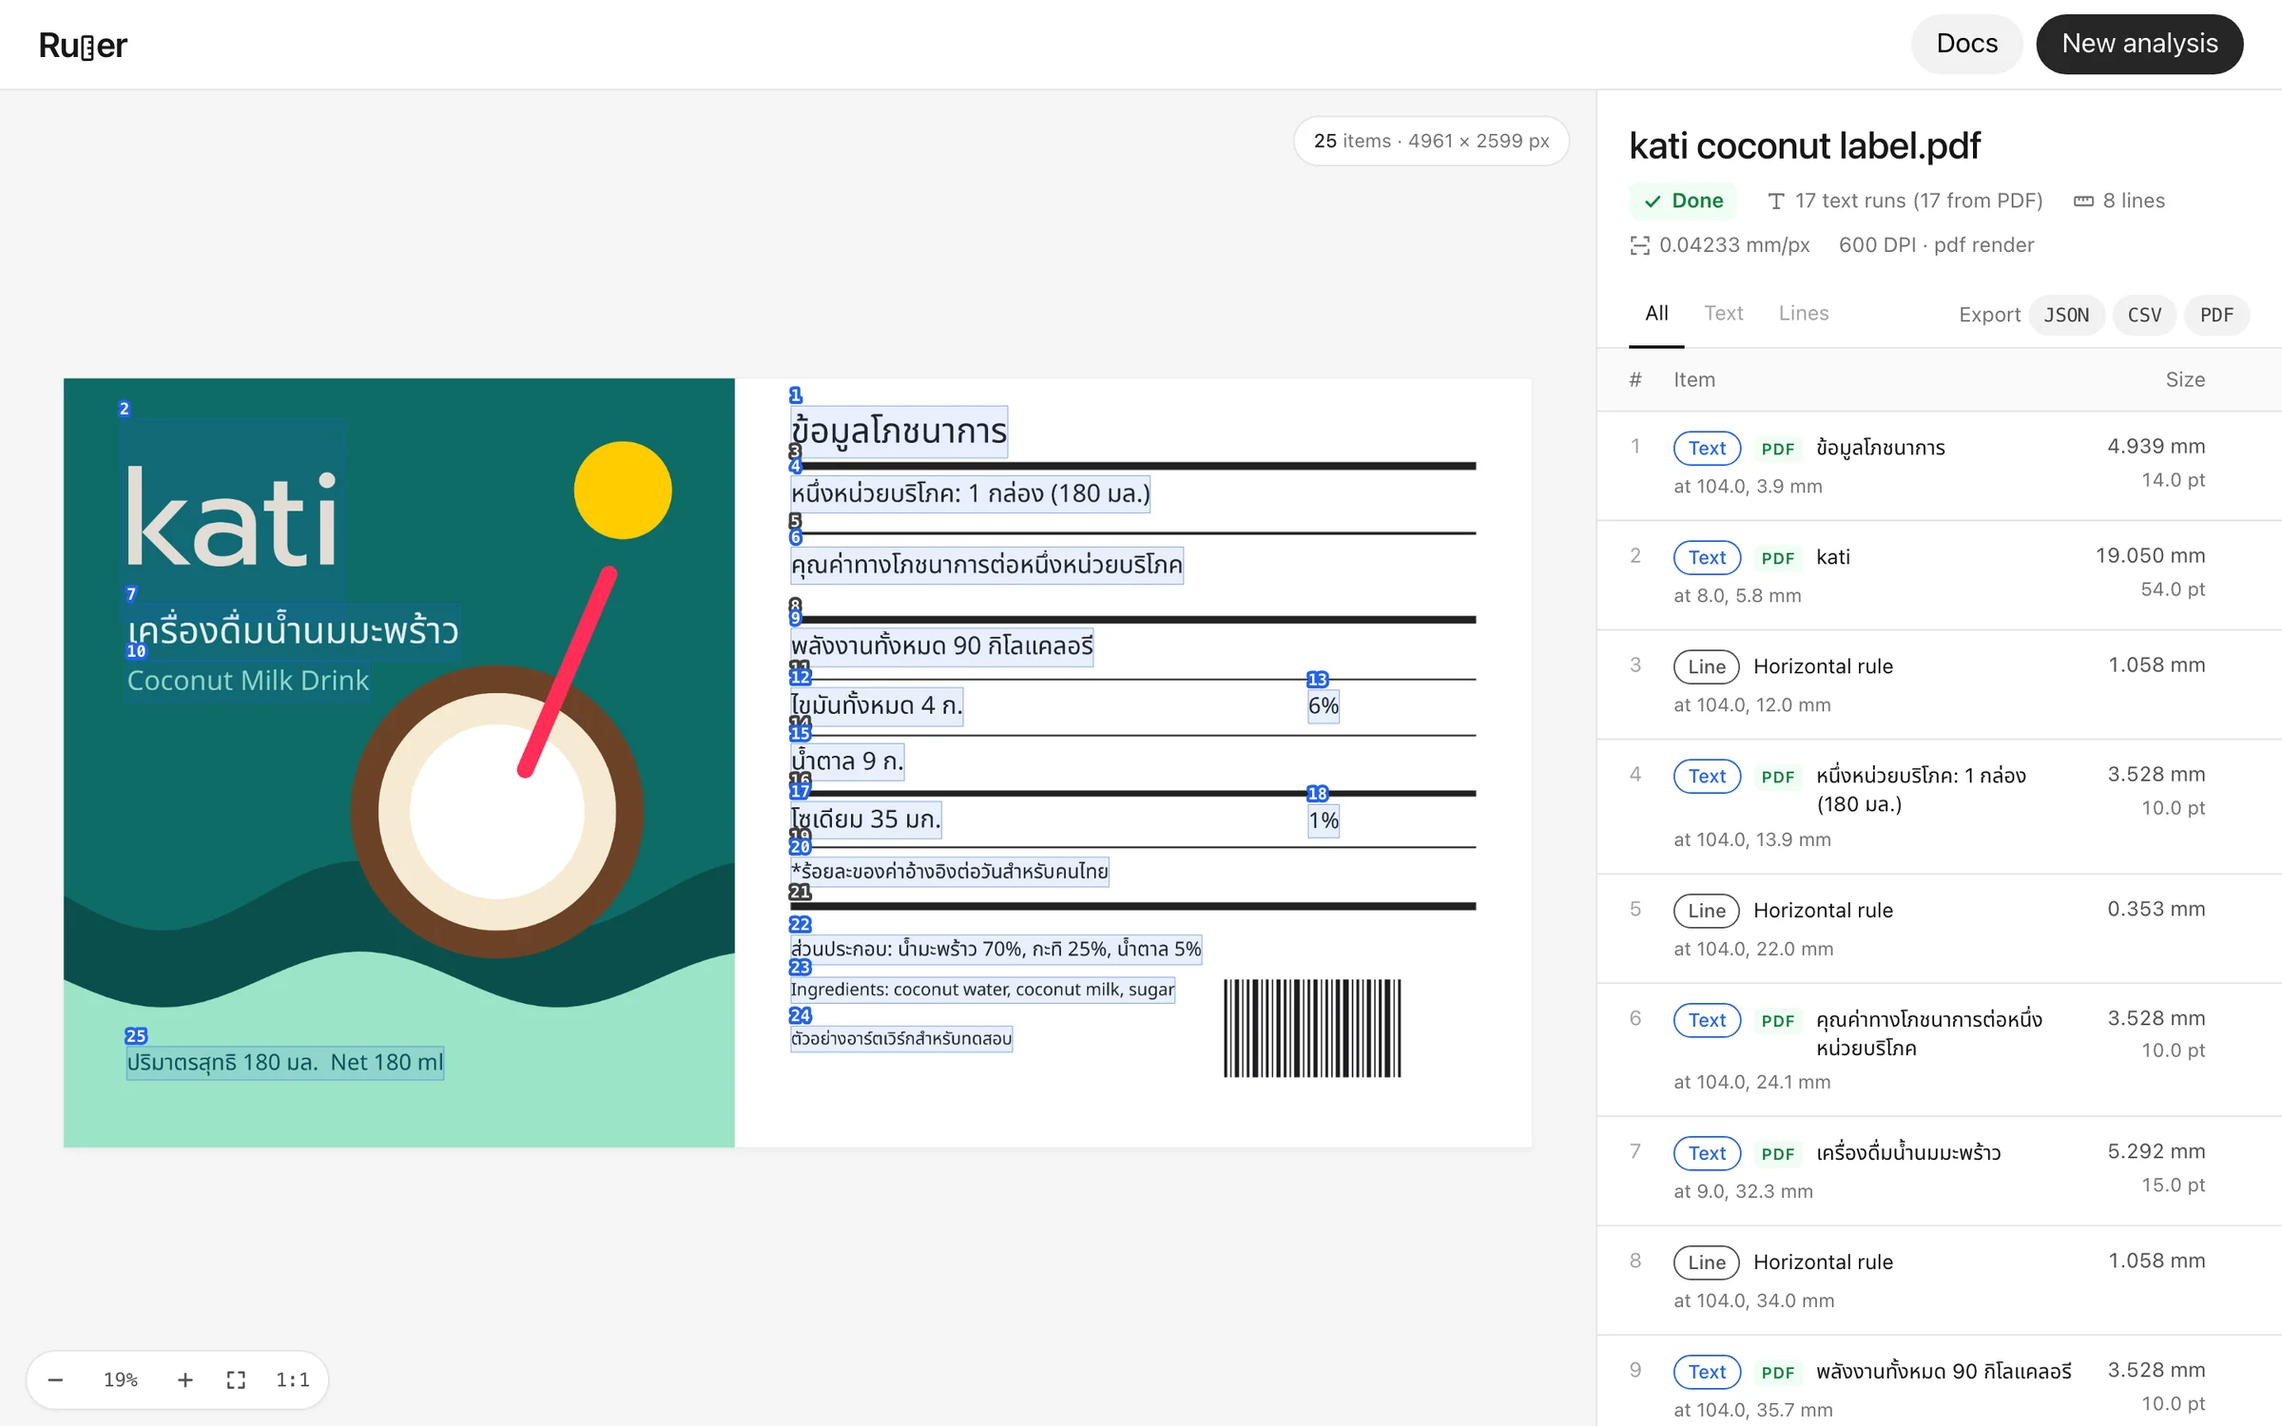
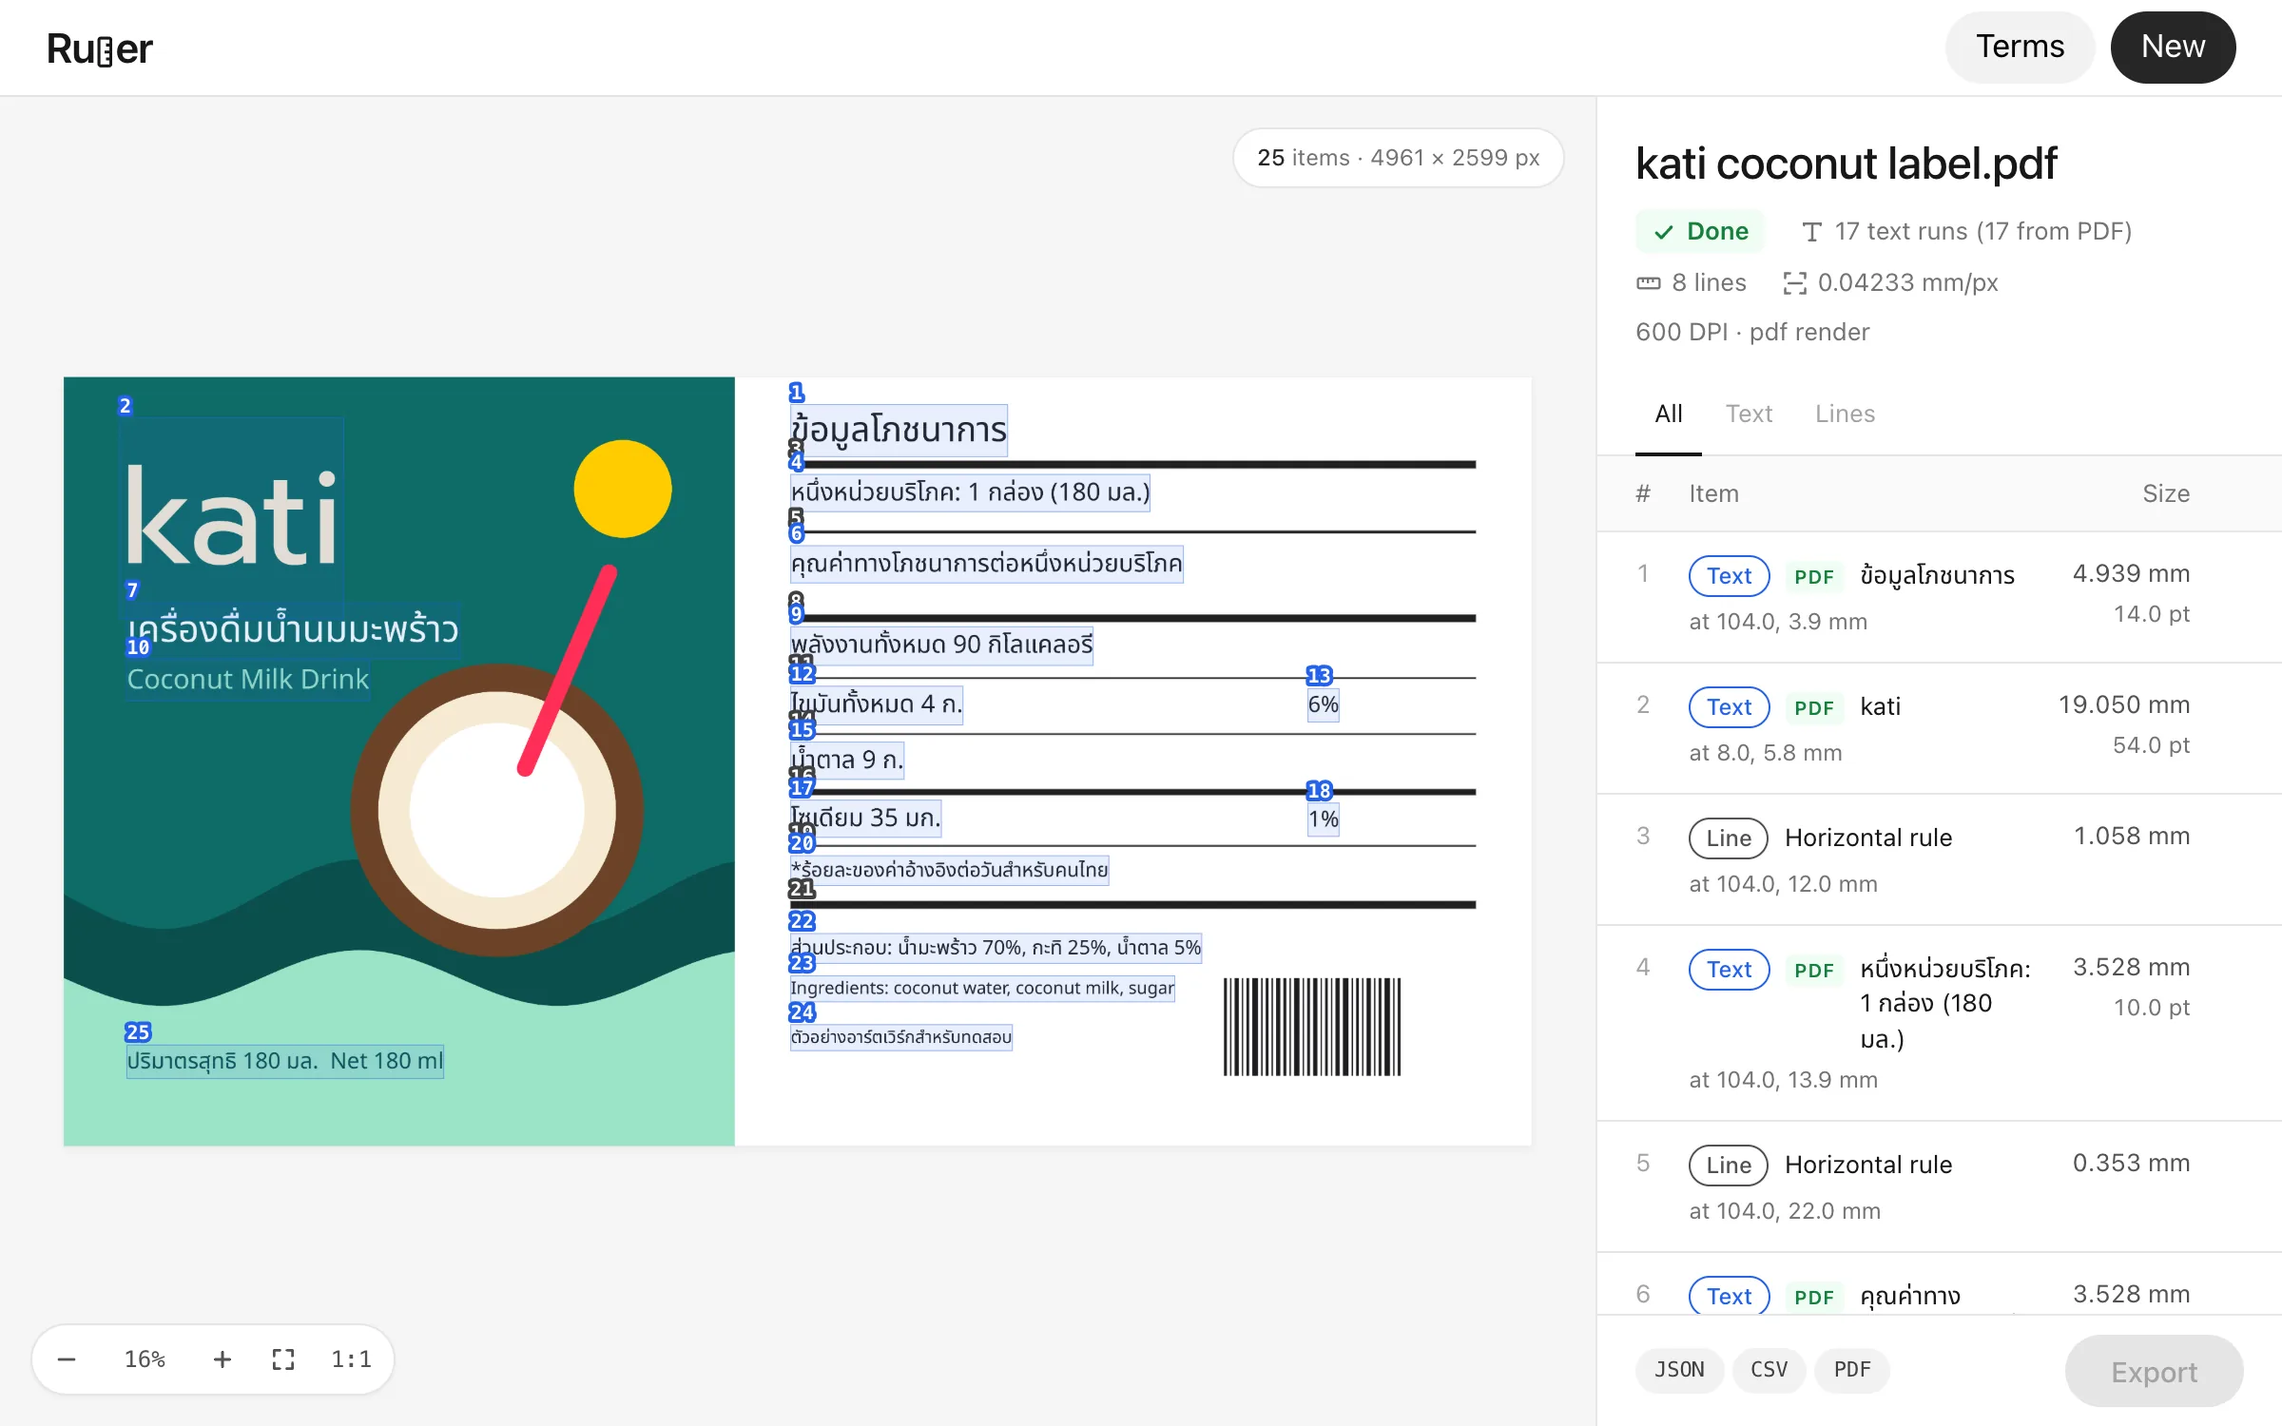
Update the Ruler case study to the current version
New screenshots from the mm workspace UI, the correct stack (FastAPI,
PaddleOCR, OpenCV, Alpine.js), and three new features: the millimetre
workspace, re-read voting and known terms. Thai strings updated to match.

diff --git a/ocr-qa.html b/ocr-qa.html
@@ -621,7 +621,7 @@ a:focus-visible, button:focus-visible { outline: 2px solid var(--accent); outlin
           <div class="stat"><b>8</b><span data-i18n="glance.rules">rules measured</span></div>
           <div class="stat"><b>0.042</b><span data-i18n="glance.scale">mm per pixel</span></div>
         </div>
-        <figure><img src="Images/works/ocr/summary.webp" alt="Ruler's results panel: the job status, counts of text runs and lines, the scale, and the first measured items." width="864" height="888" loading="lazy"></figure>
+        <figure><img src="Images/works/ocr/summary.webp" alt="Ruler's results panel: the job status, counts of text runs and lines, the scale, and the first measured items." width="720" height="888" loading="lazy"></figure>
       </aside>
     </div>
   </section>
@@ -637,11 +637,11 @@ a:focus-visible, button:focus-visible { outline: 2px solid var(--accent); outlin
         </section>
         <section>
           <h3 data-i18n="story.work.head">Work I did</h3>
-          <p data-i18n="story.work.body">I shaped the product and built it: framing the problem, setting what the system has to catch, and designing how a reviewer works through what it finds. I then implemented it as a Next.js web app that keeps the artwork and its checks in one workspace, in Thai and English.</p>
+          <p data-i18n="story.work.body">I shaped the product and built it: framing the problem, setting what the system has to catch, and designing how a reviewer works through what it finds. I then built it as a web app — a FastAPI service with PaddleOCR for the words and OpenCV for the rules, and an Alpine.js workspace that shows the artwork at true size beside everything found on it, in Thai and English.</p>
         </section>
       </div>
       <div class="story-shot reveal">
-        <img src="Images/works/ocr/upload.webp" alt="Ruler's start screen: drop an artwork (JPG, PNG or PDF up to 50 MB), with an optional physical width for images that have no reliable DPI." width="1140" height="780" loading="lazy">
+        <img src="Images/works/ocr/upload.webp" alt="Ruler's start screen: a millimetre workspace with rulers, a grid and Card-to-A0 page outlines, and a card to drop an artwork (JPG, PNG or PDF up to 50 MB) with an optional physical width." width="1680" height="1398" loading="lazy">
       </div>
     </div>
   </section>
@@ -684,7 +684,7 @@ a:focus-visible, button:focus-visible { outline: 2px solid var(--accent); outlin
         <div class="feature reveal">
           <span class="feature-mark"><svg viewBox="0 0 24 24" fill="none" stroke="currentColor" stroke-width="1.8" stroke-linecap="round" aria-hidden="true"><path d="M4 7V5h16v2"/><path d="M12 5v14"/><path d="M9 19h6"/></svg></span>
           <h3 data-i18n="f1.head">Font size, measured</h3>
-          <p data-i18n="f1.body">Each text run is sized from its glyphs — Thai by body height, Latin by cap height — and given in millimetres and points.</p>
+          <p data-i18n="f1.body">A PDF's own text layer is read first, for exact characters and sizes; OCR fills in outlined text. Everything else is sized from its glyphs — Thai by body height, Latin by cap height — in millimetres and points.</p>
         </div>
         <div class="feature reveal">
           <span class="feature-mark"><svg viewBox="0 0 24 24" fill="none" stroke="currentColor" stroke-width="1.8" stroke-linecap="round" aria-hidden="true"><path d="M3 8h18"/><path d="M3 13h18" stroke-width="3"/><path d="M3 18h18" stroke-width="1"/></svg></span>
@@ -696,14 +696,29 @@ a:focus-visible, button:focus-visible { outline: 2px solid var(--accent); outlin
           <h3 data-i18n="f3.head">A record that ships</h3>
           <p data-i18n="f3.body">The list, the overlay and every export come from one set of findings — JSON, CSV, or a PDF report with the marked-up artwork.</p>
         </div>
+        <div class="feature reveal">
+          <span class="feature-mark"><svg viewBox="0 0 24 24" fill="none" stroke="currentColor" stroke-width="1.8" stroke-linecap="round" stroke-linejoin="round" aria-hidden="true"><path d="M3 21V3h4v18z"/><path d="M7 7h2M7 11h3M7 15h2"/><rect x="12" y="8" width="9" height="12" rx="1"/></svg></span>
+          <h3 data-i18n="f4.head">A workspace in millimetres</h3>
+          <p data-i18n="f4.body">Rulers, a grid and Card-to-A0 outlines frame the artwork at its true size, so a label can be judged against the page it will print on.</p>
+        </div>
+        <div class="feature reveal">
+          <span class="feature-mark"><svg viewBox="0 0 24 24" fill="none" stroke="currentColor" stroke-width="1.8" stroke-linecap="round" stroke-linejoin="round" aria-hidden="true"><path d="M4 12a8 8 0 0 1 13.7-5.6L20 9"/><path d="M20 4v5h-5"/><path d="M20 12a8 8 0 0 1-13.7 5.6L4 15"/><path d="M4 20v-5h5"/></svg></span>
+          <h3 data-i18n="f5.head">Read twice, kept only when sure</h3>
+          <p data-i18n="f5.body">Large OCR lines are read again at several sizes, and a new reading replaces the first only when the rereads agree — so one shaky reading never reaches the list.</p>
+        </div>
+        <div class="feature reveal">
+          <span class="feature-mark"><svg viewBox="0 0 24 24" fill="none" stroke="currentColor" stroke-width="1.8" stroke-linecap="round" stroke-linejoin="round" aria-hidden="true"><path d="M5 4h11l3 3v13H5z"/><path d="M9 10h6M9 14h6M9 18h3"/></svg></span>
+          <h3 data-i18n="f6.head">Terms it knows</h3>
+          <p data-i18n="f6.body">A list of company names, brands and Thai FDA wording repairs near-miss readings, and every correction is flagged with the text it replaced.</p>
+        </div>
       </div>
       <div class="closeups">
         <figure class="closeup reveal">
-          <div class="closeup-img"><img src="Images/works/ocr/nutrition-table.webp" alt="Close-up of the label's nutrition table, with each text run and each rule boxed and numbered, and the energy line selected." width="1600" height="1340" loading="lazy"></div>
+          <div class="closeup-img"><img src="Images/works/ocr/nutrition-table.webp" alt="Close-up of the label's nutrition table, with each text run and each rule boxed and numbered, and the energy line selected." width="1400" height="1172" loading="lazy"></div>
           <figcaption data-i18n="c1"><b>Down to the nutrition table.</b> Each line of text and each rule gets its own box and number, so a finding can be checked on the artwork itself.</figcaption>
         </figure>
         <figure class="closeup reveal">
-          <div class="closeup-img"><img src="Images/works/ocr/lines.webp" alt="The Lines tab of the results list: each horizontal rule with its position and thickness in millimetres." width="864" height="1608" loading="lazy"></div>
+          <div class="closeup-img"><img src="Images/works/ocr/lines.webp" alt="The Lines tab of the results list: each horizontal rule with its position and thickness in millimetres." width="720" height="1340" loading="lazy"></div>
           <figcaption data-i18n="c2"><b>Lines, on their own.</b> Filter to the rules and read each weight and position in millimetres.</figcaption>
         </figure>
       </div>
@@ -776,7 +791,7 @@ const th = {
   'story.need.head': 'โจทย์',
   'story.need.body': 'ทุกเวอร์ชันที่แก้ต้องถูกตรวจเทียบกับไฟล์ที่อนุมัติแล้ว และการตรวจด้วยมือนั้นช้า สิ่งที่หลุดรอดมักไม่ใช่เรื่องที่เห็นชัด แต่เป็นการเปลี่ยนแปลงเล็ก ๆ ที่มีความเสี่ยงสูงที่สุดเมื่อพิมพ์ออกมาแล้ว',
   'story.work.head': 'สิ่งที่ฉันทำ',
-  'story.work.body': 'ฉันออกแบบผลิตภัณฑ์และลงมือสร้างเอง ตั้งแต่การตั้งโจทย์ การกำหนดสิ่งที่ระบบต้องตรวจจับ ไปจนถึงการออกแบบวิธีที่ผู้ตรวจใช้งานผลลัพธ์ แล้วพัฒนาออกมาเป็นเว็บแอป Next.js ที่รวมอาร์ตเวิร์กและการตรวจสอบไว้ในพื้นที่ทำงานเดียว ทั้งภาษาไทยและอังกฤษ',
+  'story.work.body': 'ฉันออกแบบผลิตภัณฑ์และลงมือสร้างเอง ตั้งแต่การตั้งโจทย์ การกำหนดสิ่งที่ระบบต้องตรวจจับ ไปจนถึงการออกแบบวิธีที่ผู้ตรวจใช้งานผลลัพธ์ แล้วพัฒนาออกมาเป็นเว็บแอป — บริการ FastAPI ที่ใช้ PaddleOCR อ่านข้อความและ OpenCV วัดเส้น กับพื้นที่ทำงาน Alpine.js ที่แสดงอาร์ตเวิร์กในขนาดจริงเคียงข้างทุกอย่างที่พบ ทั้งภาษาไทยและอังกฤษ',
   'hl.head': 'ไฮไลต์',
   'hl.1': 'ใช้รายการสรุปแทนการตรวจด้วยสายตา',
   'hl.2': 'ทุกจุดที่พบชี้ไปยังตำแหน่งบนอาร์ตเวิร์ก',
@@ -784,11 +799,17 @@ const th = {
   'ws.head': 'พื้นที่ทำงาน',
   'ws.body': 'อาร์ตเวิร์กอยู่ทางซ้าย ทุกอย่างที่พบอยู่ทางขวา เลือกแถวแล้วภาพจะเลื่อนไปยังจุดนั้น เลือกกรอบแล้วรายการจะตามไป',
   'f1.head': 'วัดขนาดตัวอักษร',
-  'f1.body': 'ข้อความแต่ละชุดถูกวัดขนาดจากตัวอักษรจริง — ภาษาไทยจากความสูงตัวพยัญชนะ ภาษาอังกฤษจากความสูงตัวพิมพ์ใหญ่ — แสดงเป็นมิลลิเมตรและพอยต์',
+  'f1.body': 'อ่านเลเยอร์ข้อความของ PDF ก่อน จึงได้ตัวอักษรและขนาดที่ตรงทุกตัว ส่วนข้อความที่แปลงเป็นเส้นแล้วให้ OCR อ่านแทน ที่เหลือวัดขนาดจากตัวอักษรจริง — ภาษาไทยจากความสูงตัวพยัญชนะ ภาษาอังกฤษจากความสูงตัวพิมพ์ใหญ่ — แสดงเป็นมิลลิเมตรและพอยต์',
   'f2.head': 'วัดความหนาของเส้น',
   'f2.body': 'ค้นหาเส้นแนวนอนทุกเส้นและวัดความหนาละเอียดกว่าหนึ่งพิกเซล จึงแยกเส้นบาง 0.18 มม. ออกจากเส้น 0.35 มม. ได้',
   'f3.head': 'บันทึกที่ส่งต่อได้',
   'f3.body': 'รายการ ภาพซ้อนทับ และไฟล์ส่งออกทุกแบบมาจากชุดผลลัพธ์เดียวกัน — JSON, CSV หรือรายงาน PDF พร้อมอาร์ตเวิร์กที่ทำเครื่องหมายไว้',
+  'f4.head': 'พื้นที่ทำงานหน่วยมิลลิเมตร',
+  'f4.body': 'ไม้บรรทัด ตาราง และกรอบขนาดตั้งแต่นามบัตรถึง A0 วางอาร์ตเวิร์กในขนาดจริง จึงเห็นได้ทันทีว่าฉลากจะออกมาใหญ่แค่ไหนบนหน้ากระดาษ',
+  'f5.head': 'อ่านซ้ำ แล้วเลือกเฉพาะที่มั่นใจ',
+  'f5.body': 'บรรทัดใหญ่ที่อ่านด้วย OCR จะถูกอ่านซ้ำหลายขนาด และจะแทนที่ผลเดิมก็ต่อเมื่อการอ่านซ้ำให้ผลตรงกัน — ผลที่อ่านได้ไม่แน่นอนจึงไม่หลุดเข้าไปในรายการ',
+  'f6.head': 'คลังคำที่รู้จัก',
+  'f6.body': 'รายชื่อบริษัท แบรนด์ และถ้อยคำบนฉลากตามมาตรฐาน อย. ใช้แก้คำที่อ่านเพี้ยนไปเล็กน้อย และทุกจุดที่แก้จะแสดงข้อความเดิมกำกับไว้',
   'c1': '<b>ลงลึกถึงตารางโภชนาการ</b> ข้อความแต่ละบรรทัดและเส้นแต่ละเส้นมีกรอบและหมายเลขของตัวเอง ตรวจสอบผลได้บนอาร์ตเวิร์กโดยตรง',
   'c2': '<b>ดูเฉพาะเส้น</b> กรองเฉพาะเส้นแล้วอ่านความหนาและตำแหน่งของแต่ละเส้นเป็นมิลลิเมตร',
   'm.label': 'วัดจริง ไม่ใช่กะด้วยตา',
